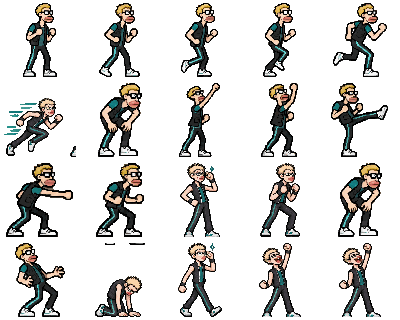
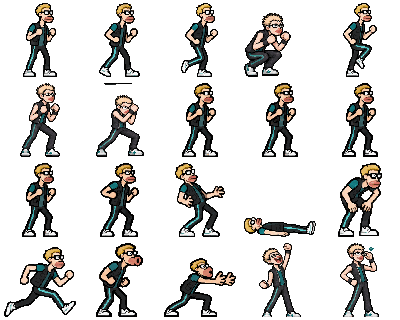
Fix Beicola dash and pose mapping

diff --git a/src/beicola.js b/src/beicola.js
@@ -1,10 +1,11 @@
 'use strict';
 
 // Sprites do Beiçola: corpo, ataques e vento/som são atlas independentes.
-const beicolaAttacks=imageAsset('assets/fighters/beicola_attacks.png');
-const beicolaSpecials=imageAsset('assets/fighters/beicola_specials.png');
-const beicolaResults=imageAsset('assets/fighters/beicola_results.png');
-const beicolaEffects=imageAsset('assets/fighters/beicola_fx.png');
+const beicolaAttacks=imageAsset('assets/fighters/beicola_attacks.png?v=posefix2');
+const beicolaMovement=imageAsset('assets/fighters/beicola_movement.png?v=posefix2');
+const beicolaSpecials=imageAsset('assets/fighters/beicola_specials.png?v=posefix2');
+const beicolaResults=imageAsset('assets/fighters/beicola_results.png?v=posefix2');
+const beicolaEffects=imageAsset('assets/fighters/beicola_fx.png?v=posefix2');
 
 function drawBeicolaAtlasFrame(image,index,columns,cell,scale){
  const x=(index%columns)*cell,y=Math.floor(index/columns)*cell;
@@ -24,6 +25,25 @@ function drawBeicola(f,t){
    else if(game.winner===f.player)frame=game.resultTime>1.65?1:4; // pose confiante / punho erguido
    else frame=8;
    drawBeicolaAtlasFrame(beicolaResults,frame,4,96,f.c.size*1.28/96);
+   return true;
+  }
+ }
+ if(beicolaMovement?.naturalWidth){
+  if(f.action==='quickStep'&&f.quickStep){
+   const progress=clamp(f.quickStep.elapsed/Math.max(.001,f.quickStep.duration),0,1);
+   const col=f.backstep?Math.floor((1-progress)*2)%2:clamp(Math.floor(progress*6),0,5);
+   const row=f.backstep?0:1;
+   drawBeicolaAtlasFrame(beicolaMovement,row*6+col,6,96,f.c.size*1.28/96);
+   return true;
+  }
+  if(f.action==='walk'){
+   const col=Math.floor((f.walkClock||0)*8)%2;
+   drawBeicolaAtlasFrame(beicolaMovement,col,6,96,f.c.size*1.28/96);
+   return true;
+  }
+  if(f.action==='run'){
+   const col=2+Math.floor((f.walkClock||0)*10)%4;
+   drawBeicolaAtlasFrame(beicolaMovement,6+col,6,96,f.c.size*1.28/96);
    return true;
   }
  }

diff --git a/src/textures.js b/src/textures.js
@@ -304,7 +304,7 @@ const pneusonFrames = {
 
 const pitufoHouse=imageAsset('assets/stages/pitufolandia.png');
 const court=imageAsset('assets/stages/quadra-ceara.png');
-const arcadeSprites=Object.fromEntries(['chapinha','pitufo','gaga','mucutuba','beicola'].map(key=>[key,imageAsset(`assets/fighters/${key}_arcade_pixel.png`)]));
+const arcadeSprites=Object.fromEntries(['chapinha','pitufo','gaga','mucutuba','beicola'].map(key=>[key,imageAsset(key==='beicola'?'assets/fighters/beicola_arcade_pixel.png?v=posefix2':`assets/fighters/${key}_arcade_pixel.png`)]));
 const dinoAtlas=imageAsset("assets/fighters/dino_arcade_pixel_verde.png");
 
 const powerAtlases=Object.fromEntries(Object.keys(powerFrames).map(key=>[key,imageAsset(`assets/fighters/${key}_powers${key==='dino'?'_verde':''}.png`)]));

diff --git a/index.html b/index.html
@@ -49,9 +49,9 @@
   <script src="src/mobile.js?v=mobile-1" defer></script>
   <script src="src/state.js?v=mobile-1" defer></script>
   <script src="src/textures.js?v=dino-clean-1" defer></script>
-  <script src="src/beicola.js?v=1" defer></script>
   <script src="src/audio.js?v=music-gapless" defer></script>
   <script src="src/poses.js?v=neneu-local-1" defer></script>
+  <script src="src/beicola.js?v=posefix2" defer></script>
   <script src="src/beicola.js?v=1" defer></script>
   <script src="src/menu.js?v=mobile-1" defer></script>
   <script src="src/input.js?v=mobile-1" defer></script>
